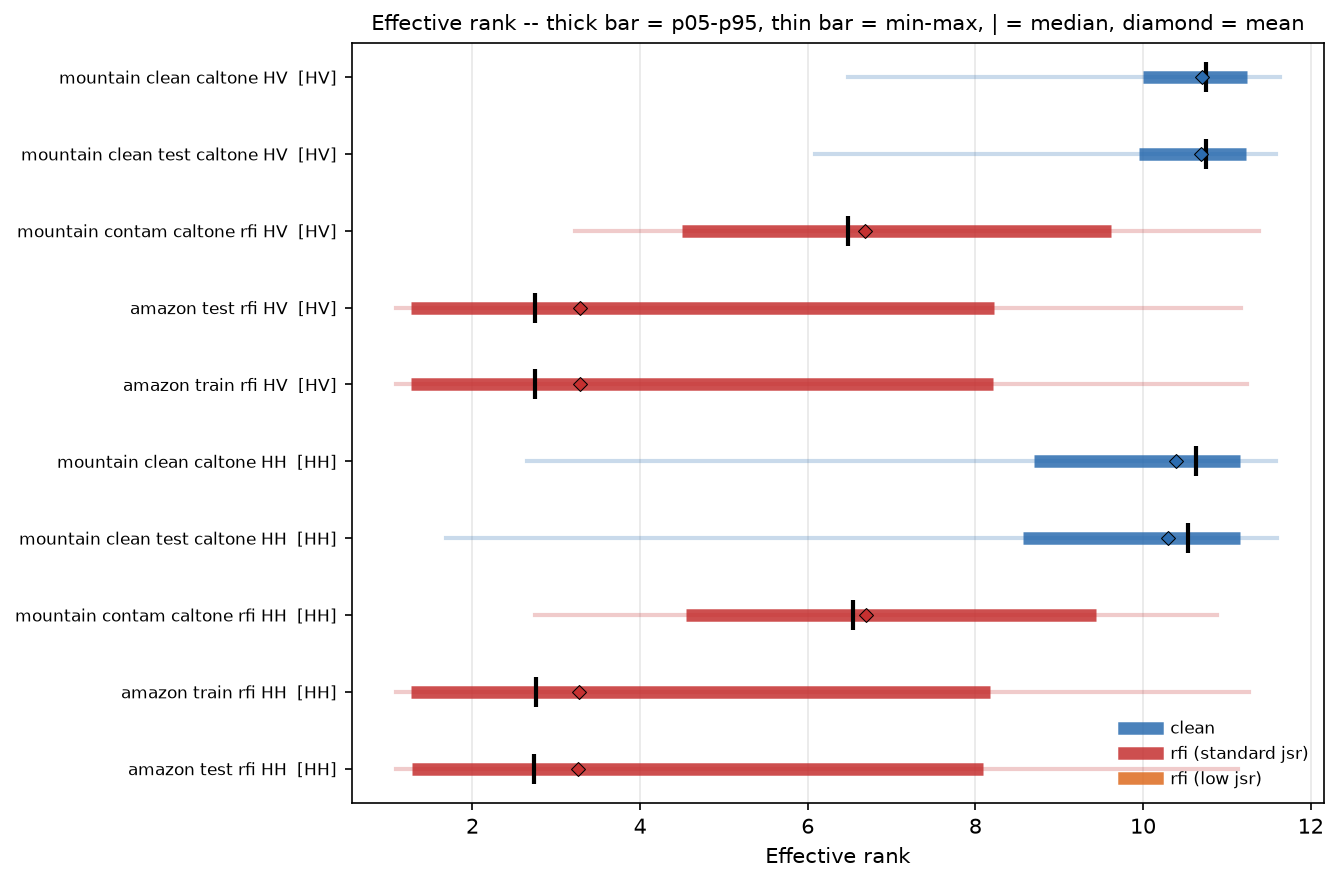
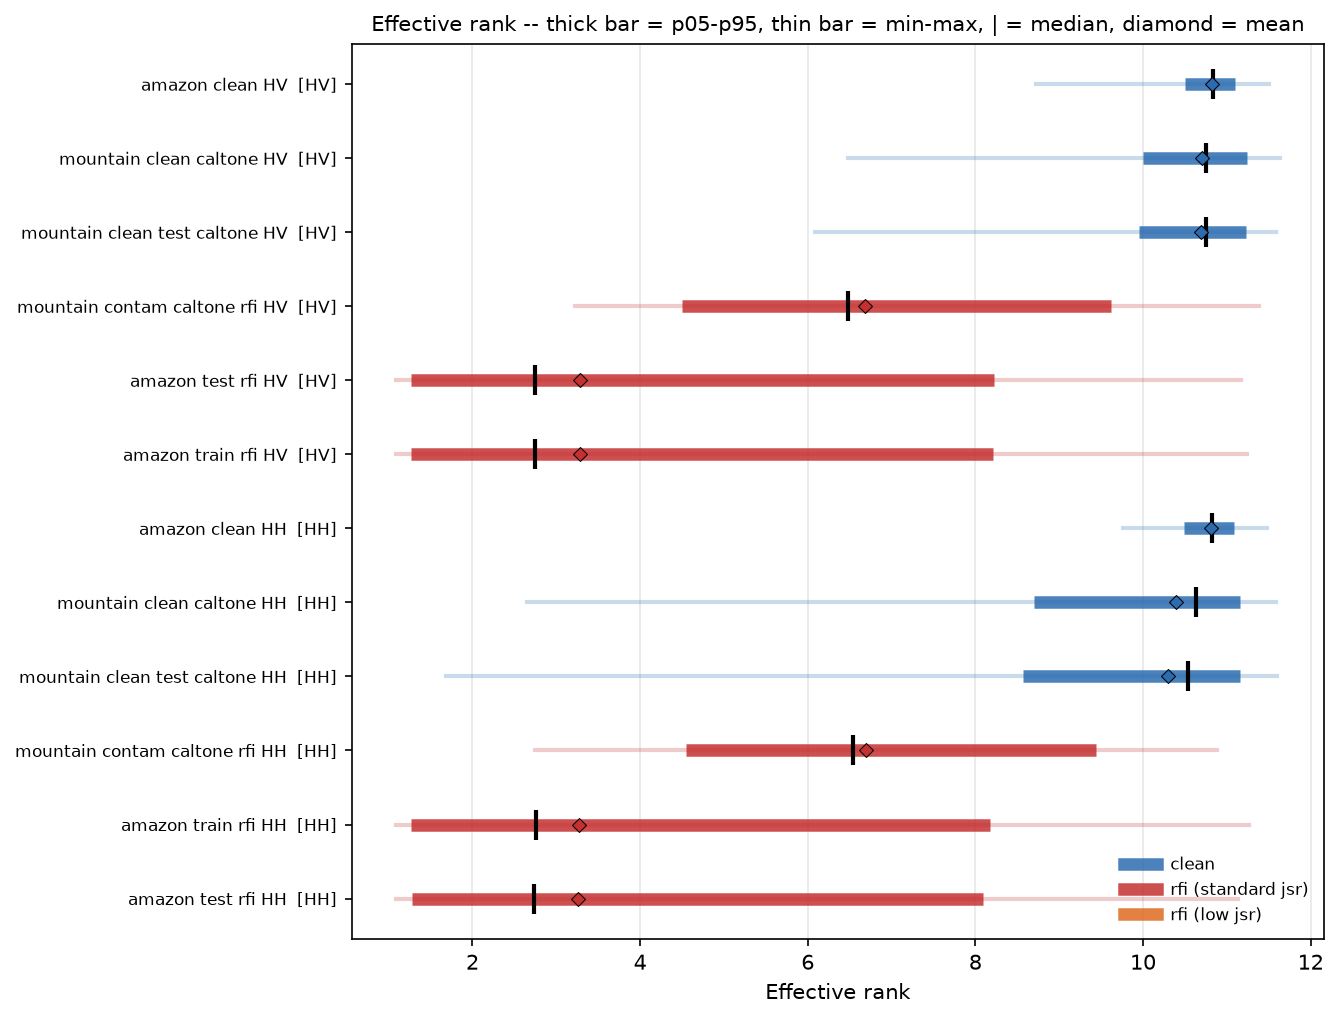
update metrics

diff --git a/plotters/plot_metrics.py b/plotters/plot_metrics.py
@@ -83,21 +83,19 @@ DEFAULT_RFI_LABEL_MAX = 6
 # EXTRACTION
 # ---------------------------------------------------------------------------
 
-def extract_channel_metrics(path, diag_valid_frac_thresh, n_keep, ratio_def,
-                            rfi_label_min, rfi_label_max, rfi_only=False):
+def channel_filtered_arrays(path, diag_valid_frac_thresh, n_keep, select,
+                            rfi_label_min, rfi_label_max, clean_label):
     """
-    Load one channel file, apply the diag-valid-frac filter, and compute the
-    three global metric summaries.
+    Load one channel file, apply the diag-valid-frac filter, then keep the tile
+    subset named by `select`:
 
-    With rfi_only=True the MAIN summaries are restricted to tiles labeled in
-    [rfi_label_min, rfi_label_max] (clean tiles dropped entirely), and no
-    separate "(rfi only)" summaries are returned -- the main row already is the
-    RFI-only statistic. Requires the file to carry a `labels` dataset.
+      "all"   : every valid tile
+      "rfi"   : tiles labeled in [rfi_label_min, rfi_label_max]   (needs labels)
+      "clean" : tiles labeled == clean_label                       (needs labels)
 
-    Otherwise the main summaries cover all valid tiles, plus a secondary
-    RFI-only summary when labels are present.
-
-    Returns (summaries_all, summaries_rfi_only_or_None, counts).
+    Returns (eig_kept, diag_lin, diag_valid_idx_or_None, labels_or_None, counts).
+    diag_valid_idx is materialized to an all-True array when the file omits it,
+    so callers (e.g. pooling across files) get a uniform shape.
     """
     ch = load_channel(path)
     describe_coverage(ch)
@@ -109,47 +107,43 @@ def extract_channel_metrics(path, diag_valid_frac_thresh, n_keep, ratio_def,
            else np.ones(ch.n_tiles, dtype=np.float32))
     valid = dvf >= diag_valid_frac_thresh
 
-    eig_kept = ch.eigenvalues[valid][:, :n_keep]
-    diag_valid = ch.diagonal[valid]
-    didx_valid = ch.diag_valid_idx[valid] if ch.diag_valid_idx is not None else None
+    eig = ch.eigenvalues[valid][:, :n_keep]
+    diag = ch.diagonal[valid]
+    if ch.diag_valid_idx is not None:
+        didx = ch.diag_valid_idx[valid]
+    else:
+        didx = np.ones(diag.shape, dtype=bool)
+    labels = ch.labels[valid] if ch.labels is not None else None
+
     counts = {
         "n_total_in_file": int(ch.n_tiles),
         "n_passing_diag_valid_frac": int(valid.sum()),
     }
 
-    if rfi_only:
-        if ch.labels is None:
-            raise ValueError(f"--rfi-only needs a 'labels' dataset; {path} has none.")
-        labels_valid = ch.labels[valid]
-        rfi_mask = (labels_valid >= rfi_label_min) & (labels_valid <= rfi_label_max)
-        counts["n_rfi_labeled"] = int(rfi_mask.sum())
-        counts["n_clean_dropped"] = int((~rfi_mask).sum())
-        if not rfi_mask.any():
-            raise ValueError(
-                f"--rfi-only found no tiles labeled in [{rfi_label_min}, "
-                f"{rfi_label_max}] in {path}.")
-        eig_kept = eig_kept[rfi_mask]
-        diag_valid = diag_valid[rfi_mask]
-        didx_valid = didx_valid[rfi_mask] if didx_valid is not None else None
-        metrics = compute_all_metrics(eig_kept, diag_valid, didx_valid, ratio_def)
-        return [summarize(v, name) for name, v in metrics.items()], None, counts
+    if select == "all":
+        return eig, diag, didx, labels, counts
 
-    metrics = compute_all_metrics(eig_kept, diag_valid, didx_valid, ratio_def)
-    summaries_all = [summarize(v, name) for name, v in metrics.items()]
+    if labels is None:
+        raise ValueError(f"--{select}-only needs a 'labels' dataset; {path} has none.")
+    if select == "rfi":
+        mask = (labels >= rfi_label_min) & (labels <= rfi_label_max)
+        counts["n_rfi_labeled"] = int(mask.sum())
+    elif select == "clean":
+        mask = labels == clean_label
+        counts["n_clean_labeled"] = int(mask.sum())
+    else:
+        raise ValueError(f"Unknown select '{select}'")
+    counts["n_dropped"] = int((~mask).sum())
+    if not mask.any():
+        raise ValueError(f"--{select}-only found no matching tiles in {path}.")
 
-    summaries_rfi_only = None
-    if ch.labels is not None:
-        labels_valid = ch.labels[valid]
-        rfi_mask = (labels_valid >= rfi_label_min) & (labels_valid <= rfi_label_max)
-        counts["n_rfi_labeled"] = int(rfi_mask.sum())
-        counts["n_clean_labeled_0"] = int((labels_valid == 0).sum())
-        if rfi_mask.any():
-            metrics_rfi = compute_all_metrics(
-                eig_kept[rfi_mask], diag_valid[rfi_mask],
-                didx_valid[rfi_mask] if didx_valid is not None else None, ratio_def)
-            summaries_rfi_only = [summarize(v, name) for name, v in metrics_rfi.items()]
+    return eig[mask], diag[mask], didx[mask], labels[mask], counts
 
-    return summaries_all, summaries_rfi_only, counts
+
+def summaries_from_arrays(eig, diag, didx, ratio_def):
+    """Compute the three metric summaries from filtered per-tile arrays."""
+    metrics = compute_all_metrics(eig, diag, didx, ratio_def)
+    return [summarize(v, name) for name, v in metrics.items()]
 
 
 def print_report(path, run_name, counts, summaries, report_name):
@@ -473,6 +467,17 @@ def parse_args():
                              "--input to tiles labeled in [--rfi-label-min, --rfi-label-max]. "
                              "Requires a 'labels' dataset. Use for the amazon / contaminated "
                              "sets where only the RFI statistic is wanted.")
+    parser.add_argument("--clean-only", action="store_true",
+                        help="Inverse of --rfi-only: restrict every --input to clean tiles "
+                             "(label == --clean-label). Requires a 'labels' dataset. Use to pull "
+                             "the label-0 background out of contaminated files.")
+    parser.add_argument("--clean-label", type=int, default=0,
+                        help="Label value treated as clean for --clean-only (default: 0)")
+    parser.add_argument("--pool", action="store_true",
+                        help="Pool ALL --input files into a SINGLE tracking row (one --run-name), "
+                             "concatenating their selected tiles before summarizing. Use e.g. to "
+                             "build one 'amazon clean' row from the clean tiles of the train AND "
+                             "test files together.")
 
     parser.add_argument("--style", choices=["box", "numberline", "both"], default="box",
                         help="Overlap plot style (default: box)")
@@ -497,38 +502,80 @@ def main():
             print("No --input given. Use --plot-only to draw from existing CSVs, or "
                   "pass one or more --input files.", file=sys.stderr)
             sys.exit(1)
-
-        run_names = args.run_name or []
-        if run_names and len(run_names) != len(inputs):
-            print(f"Got {len(inputs)} --input but {len(run_names)} --run-name; they must "
-                  f"pair 1:1 (or omit --run-name to default to filenames).", file=sys.stderr)
+        if args.rfi_only and args.clean_only:
+            print("--rfi-only and --clean-only are mutually exclusive.", file=sys.stderr)
             sys.exit(1)
 
-        for i, path in enumerate(inputs):
-            run_name = (run_names[i] if run_names
-                        else os.path.splitext(os.path.basename(path))[0])
-            summaries_all, summaries_rfi_only, counts = extract_channel_metrics(
-                path, args.diag_valid_frac_thresh, args.n_keep,
-                args.median_max_ratio_def, args.rfi_label_min, args.rfi_label_max,
-                rfi_only=args.rfi_only)
+        select = "rfi" if args.rfi_only else ("clean" if args.clean_only else "all")
+        report_name = {
+            "rfi": f"RFI tiles only (labels {args.rfi_label_min}-{args.rfi_label_max})",
+            "clean": f"Clean tiles only (label {args.clean_label})",
+            "all": "All valid CPI tiles",
+        }[select]
 
-            report_name = (f"RFI tiles only (labels {args.rfi_label_min}-{args.rfi_label_max})"
-                           if args.rfi_only else "All valid CPI tiles")
-            print_report(path, run_name, counts, summaries_all, report_name)
-            written = update_all_metrics_tables(args.metrics_dir, run_name, summaries_all)
+        run_names = args.run_name or []
+
+        if args.pool:
+            # All inputs collapse into one row; require exactly one run name.
+            if len(run_names) != 1:
+                print("--pool requires exactly one --run-name for the pooled row.",
+                      file=sys.stderr)
+                sys.exit(1)
+            run_name = run_names[0]
+            eigs, diags, didxs = [], [], []
+            total = {"n_files": len(inputs), "n_tiles_pooled": 0}
+            for path in inputs:
+                eig, diag, didx, _labels, counts = channel_filtered_arrays(
+                    path, args.diag_valid_frac_thresh, args.n_keep, select,
+                    args.rfi_label_min, args.rfi_label_max, args.clean_label)
+                eigs.append(eig)
+                diags.append(diag)
+                didxs.append(didx)
+                total["n_tiles_pooled"] += eig.shape[0]
+            eig = np.concatenate(eigs)
+            diag = np.concatenate(diags)
+            didx = np.concatenate(didxs)
+            summaries = summaries_from_arrays(eig, diag, didx, args.median_max_ratio_def)
+            print_report(f"{len(inputs)} files pooled", run_name, total, summaries,
+                         f"{report_name} (pooled)")
+            written = update_all_metrics_tables(args.metrics_dir, run_name, summaries)
             print(f"Updated tracking row '{run_name}' in: {', '.join(written)}")
+            if args.no_plot:
+                return
+        else:
+            if run_names and len(run_names) != len(inputs):
+                print(f"Got {len(inputs)} --input but {len(run_names)} --run-name; they must "
+                      f"pair 1:1 (or omit --run-name to default to filenames).", file=sys.stderr)
+                sys.exit(1)
 
-            if summaries_rfi_only is not None:
-                rfi_run = f"{run_name} (rfi only)"
-                print_report(path, rfi_run, {"rfi_label_range":
-                             f"[{args.rfi_label_min}, {args.rfi_label_max}]"},
-                             summaries_rfi_only,
-                             f"RFI tiles only (labels {args.rfi_label_min}-{args.rfi_label_max})")
-                written = update_all_metrics_tables(args.metrics_dir, rfi_run, summaries_rfi_only)
-                print(f"Updated tracking row '{rfi_run}' in: {', '.join(written)}")
+            for i, path in enumerate(inputs):
+                run_name = (run_names[i] if run_names
+                            else os.path.splitext(os.path.basename(path))[0])
+                eig, diag, didx, labels, counts = channel_filtered_arrays(
+                    path, args.diag_valid_frac_thresh, args.n_keep, select,
+                    args.rfi_label_min, args.rfi_label_max, args.clean_label)
+                summaries = summaries_from_arrays(eig, diag, didx, args.median_max_ratio_def)
 
-        if args.no_plot:
-            return
+                print_report(path, run_name, counts, summaries, report_name)
+                written = update_all_metrics_tables(args.metrics_dir, run_name, summaries)
+                print(f"Updated tracking row '{run_name}' in: {', '.join(written)}")
+
+                # In the default "all" mode, also emit a secondary "(rfi only)" row
+                # when the file carries labels, as before.
+                if select == "all" and labels is not None:
+                    rfi_mask = (labels >= args.rfi_label_min) & (labels <= args.rfi_label_max)
+                    if rfi_mask.any():
+                        rfi_run = f"{run_name} (rfi only)"
+                        s = summaries_from_arrays(eig[rfi_mask], diag[rfi_mask],
+                                                  didx[rfi_mask], args.median_max_ratio_def)
+                        print_report(path, rfi_run,
+                                     {"n_rfi_labeled": int(rfi_mask.sum())}, s,
+                                     f"RFI tiles only (labels {args.rfi_label_min}-{args.rfi_label_max})")
+                        written = update_all_metrics_tables(args.metrics_dir, rfi_run, s)
+                        print(f"Updated tracking row '{rfi_run}' in: {', '.join(written)}")
+
+            if args.no_plot:
+                return
 
     written = plot_overlaps(args.metrics_dir, args.output_dir, args.style,
                             metrics_to_plot, args.filter)
